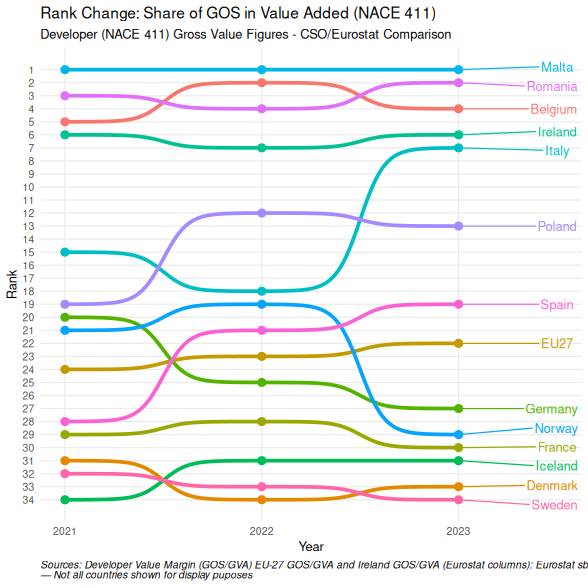
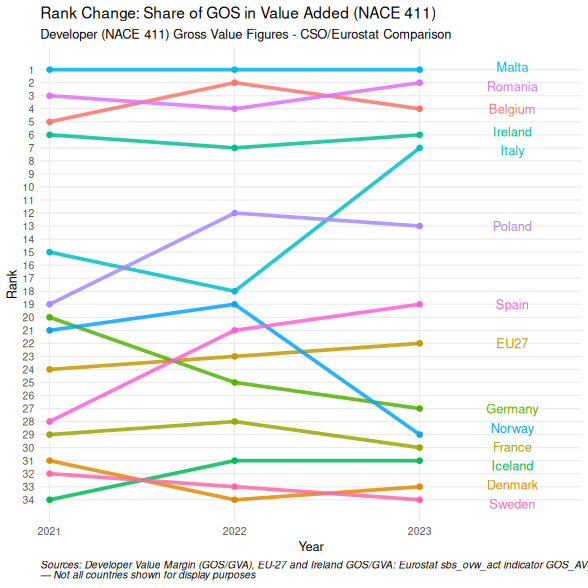
Fix CI build: drop ggbump dependency, force listing rebuild
- Replace geom_bump with geom_line in housing_1 rank chart, removing
  the GitHub-only ggbump dependency that was failing CI install
- Remove ggbump from package list and deploy workflow install step
- build.R: delete rendered index HTML before fuse_site to force the
  posts listing to rebuild (litedown's 'outdated' check skips it, so
  new/date-released posts weren't appearing in the index)
- deploy.yml: CRAN-only install, daily cron for staged release

diff --git a/posts/2026-06-10-housing_1/index.html b/posts/2026-06-10-housing_1/index.html
@@ -311,7 +311,7 @@ bump_data &lt;- eurostat_raw_labelled |&gt;
   filter(
     var == &quot;Share of gross operating surplus in value added - percentage&quot;,
     nace_code == 411,
-    year &lt;2024
+    year &lt; 2024
   ) |&gt;
   group_by(year) |&gt;
   mutate(rank = rank(-value, ties.method = &quot;first&quot;),
@@ -321,41 +321,41 @@ bump_data &lt;- eurostat_raw_labelled |&gt;
          year = as.integer(year)) |&gt;
   ungroup()
 
-# Define the countries you want to keep
-selected_countries &lt;- c(&quot;Ireland&quot;, &quot;EU27&quot;, &quot;France&quot;, &quot;Germany&quot;, &quot;Spain&quot;, &quot;Italy&quot;,&quot;Malta&quot;,&quot;Poland&quot;,&quot;Belgium&quot;,&quot;Denmark&quot;,&quot;Sweden&quot;,&quot;Iceland&quot;,&quot;Norway&quot;,&quot;Romania&quot;)
+selected_countries &lt;- c(&quot;Ireland&quot;, &quot;EU27&quot;, &quot;France&quot;, &quot;Germany&quot;, &quot;Spain&quot;, &quot;Italy&quot;,
+                        &quot;Malta&quot;, &quot;Poland&quot;, &quot;Belgium&quot;, &quot;Denmark&quot;, &quot;Sweden&quot;,
+                        &quot;Iceland&quot;, &quot;Norway&quot;, &quot;Romania&quot;)
 
 bump_data_filtered &lt;- bump_data |&gt;
   filter(geo %in% selected_countries)
 
-# 2. Plotting
 ggplot(bump_data_filtered, aes(x = year, y = rank, color = geo)) +
-  geom_bump(size = 1.5) +
-  geom_point(size = 3) +
-  # Use geom_text_repel for clean labels at the end of the lines
+  geom_line(linewidth = 1.5, alpha = 0.85) +
+  geom_point(size = 2) +
   geom_text_repel(
     data = bump_data_filtered |&gt; filter(year == max(year)),
     aes(label = geo),
     nudge_x = 0.5,
-    direction = &quot;y&quot;
+    direction = &quot;y&quot;,
+    segment.color = NA
   ) +
   scale_y_reverse(breaks = 1:max(bump_data_filtered$rank)) +
-  scale_x_continuous(breaks = seq(min(bump_data_filtered$year), max(bump_data_filtered$year), 1)) +
+  scale_x_continuous(
+    breaks = seq(min(bump_data_filtered$year), max(bump_data_filtered$year), 1),
+    expand = expansion(mult = c(0.02, 0.15))
+  ) +
   theme_minimal() +
   labs(
     title = &quot;Rank Change: Share of GOS in Value Added (NACE 411)&quot;,
     subtitle = &quot;Developer (NACE 411) Gross Value Figures - CSO/Eurostat Comparison&quot;,
-    x = 'Year',
+    x = &quot;Year&quot;,
     y = &quot;Rank&quot;,
-    caption = &quot;*Sources: Developer Value Margin (GOS/GVA)  EU-27 GOS/GVA and Ireland GOS/GVA (Eurostat columns): Eurostat sbs_ovw_act indicator GOS_AV_PC, NACE F41.1, updated 10/03/2026. &lt;br&gt; — Not all countries shown for display puposes*&quot;
+    caption = &quot;*Sources: Developer Value Margin (GOS/GVA), EU-27 and Ireland GOS/GVA: Eurostat sbs_ovw_act indicator GOS_AV_PC, NACE F41.1, updated 10/03/2026. &lt;br&gt; — Not all countries shown for display purposes*&quot;
   ) +
   theme(
     legend.position = &quot;none&quot;,
-    plot.caption = element_markdown(hjust = 0), # requires 'ggtext' package
+    plot.caption = element_markdown(hjust = 0),
     panel.grid.minor = element_blank()
   )
-</code></pre>
-<pre><code class="language-plain warning">#&gt; Using `size` aesthetic for lines was deprecated in ggplot2 3.4.0.
-#&gt; Please use `linewidth` instead.
 </code></pre>
 <p><img src="index__files/chunk-6-1.png" alt="" /></p>
 <p><strong>Second — per-capita extraction isn’t compressing:</strong> Ireland’s €199 per person in F41.1 developer surplus (2022 Eurostat) against the EU average of €49 is a structural measure, not a cyclical one. France generates €60 per capita, Germany €46. These aren’t countries whose developer sectors have been recently compressed by interest rate cycles; they have structurally different institutional arrangements. The per-capita gap reflects institutional design, not macroeconomic conditions.</p>

diff --git a/posts/2026-06-13-housing_4/index.html b/posts/2026-06-13-housing_4/index.html
@@ -37,11 +37,11 @@
 <p>To be precise about what is being claimed and what isn’t: this section does not allege corruption, bad faith, or wilful negligence by any named individual within the civil service. Senior civil servants in the Departments of Finance and Housing, the Housing Finance Agency, the LDA, and An Bord Pleanála are, in the main, doing the work they are resourced, mandated, and trained to do. The problem this section documents is that the analytical question required to interrogate the viability narrative — what are Irish developer margins relative to EU peers on the same Eurostat statistical framework? — isn’t one that any of these institutions has, to this report’s knowledge, formally posed or answered in any published policy document, Oireachtas submission, or internal review. The absence of the question isn’t the same as the presence of negligence. It may simply reflect the absence of the institutional capacity, mandate, and cross-dataset analytical framework required to ask it.</p>
 <h3 id="sec:7-8-what-official-bodies-have-and-have-not-found">7.8  What Official Bodies Have and Have Not Found</h3>
 <p>The published record of official analytical work on housing sector profitability and viability is instructive precisely in what it contains and what it doesn’t.</p>
-<p>**The Comptroller and Auditor General (C&amp;AG): ** In its 2022 Report on the Accounts of the Public Services, the C&amp;AG examined the Housing Assistance Payment scheme and concluded that it ‘doesn’t represent value for money’ and ‘doesn’t provide the State long-term assets.’ It quantified the cumulative exchequer cost and noted the disproportionate flow of HAP payments to larger landlord portfolios. This is the closest any official body has come to a distributional analysis of housing subsidy flows, and it stopped at the question of state asset acquisition rather than proceeding to the question of developer margin extraction. The C&amp;AG’s finding was widely reported and widely ignored in subsequent policy design.</p>
-<p>**The Parliamentary Budget Office (PBO): ** In its 2022 and 2023 analyses of Help-to-Buy, the PBO found that one-third of recipients didn’t need the scheme to meet their deposit requirement (deadweight), and that the scheme had a ‘house price inflation effect.’ These findings mirror exactly what this report’s analysis predicts from first principles: demand-side subsidies flow to sellers, not buyers. The PBO explicitly cited the risk that Help-to-Buy supports developer margins rather than reducing housing costs. The scheme was extended regardless.</p>
-<p>**The Central Bank of Ireland: ** In multiple Financial Stability Reviews and research papers, the Central Bank noted the house price inflation risk from demand-side interventions including Help-to-Buy, and flagged the concentration of the apartment development sector. None of these papers cross-referenced CNAPA01 developer margin data or Eurostat F41.1 GOS/GVA comparisons.</p>
-<p>**The Housing Commission (2024): ** The Housing Commission’s May 2024 report is the most thorough official analysis of the Irish housing system in a generation. It identified the 256,000-unit deficit, recommended a State-led delivery model, and analysed land costs as a primary driver. It didn’t calculate or reference developer GOS/GVA margins, didn’t compare Irish developer profitability against Eurostat EU peers, and didn’t quantify the planning-permission uplift using CSO land price data. All of these datasets were publicly available at the time of the Commission’s deliberations.</p>
-<p>**Budget documentation (2025–2026): ** The Department of Finance Budget 2026 documentation introducing the 9% VAT rate doesn’t contain a distributional analysis of who receives the VAT saving by developer size, concentration quintile, or subsidy stack. The impact assessment projects increased housing supply without modelling the developer margin effect. BDO, EY, Grant Thornton, and KPMG each published more detailed analyses of the measure than the Department of Finance’s own budget documentation.</p>
+<p><strong>The Comptroller and Auditor General (C&amp;AG):</strong> In its 2022 Report on the Accounts of the Public Services, the C&amp;AG examined the Housing Assistance Payment scheme and concluded that it ‘doesn’t represent value for money’ and ‘doesn’t provide the State long-term assets.’ It quantified the cumulative exchequer cost and noted the disproportionate flow of HAP payments to larger landlord portfolios. This is the closest any official body has come to a distributional analysis of housing subsidy flows, and it stopped at the question of state asset acquisition rather than proceeding to the question of developer margin extraction. The C&amp;AG’s finding was widely reported and widely ignored in subsequent policy design.</p>
+<p><strong>The Parliamentary Budget Office (PBO):</strong> In its 2022 and 2023 analyses of Help-to-Buy, the PBO found that one-third of recipients didn’t need the scheme to meet their deposit requirement (deadweight), and that the scheme had a ‘house price inflation effect.’ These findings mirror exactly what this report’s analysis predicts from first principles: demand-side subsidies flow to sellers, not buyers. The PBO explicitly cited the risk that Help-to-Buy supports developer margins rather than reducing housing costs. The scheme was extended regardless.</p>
+<p><strong>The Central Bank of Ireland:</strong> In multiple Financial Stability Reviews and research papers, the Central Bank noted the house price inflation risk from demand-side interventions including Help-to-Buy, and flagged the concentration of the apartment development sector. None of these papers cross-referenced CNAPA01 developer margin data or Eurostat F41.1 GOS/GVA comparisons.</p>
+<p><strong>The Housing Commission (2024):</strong> The Housing Commission’s May 2024 report is the most thorough official analysis of the Irish housing system in a generation. It identified the 256,000-unit deficit, recommended a State-led delivery model, and analysed land costs as a primary driver. It didn’t calculate or reference developer GOS/GVA margins, didn’t compare Irish developer profitability against Eurostat EU peers, and didn’t quantify the planning-permission uplift using CSO land price data. All of these datasets were publicly available at the time of the Commission’s deliberations.</p>
+<p><strong>Budget documentation (2025–2026):</strong> The Department of Finance Budget 2026 documentation introducing the 9% VAT rate doesn’t contain a distributional analysis of who receives the VAT saving by developer size, concentration quintile, or subsidy stack. The impact assessment projects increased housing supply without modelling the developer margin effect. BDO, EY, Grant Thornton, and KPMG each published more detailed analyses of the measure than the Department of Finance’s own budget documentation.</p>
 <p><strong>The National Economic and Social Council (NESC):</strong> The closest the official record comes to this report’s diagnosis. NESC Council Report 145 (2018), Urban Development Land, Housing and Infrastructure: Fixing Ireland’s Broken System, described the Irish housing system as ‘speculative, volatile and expensive’, called the urban land system dysfunctional, prepared a dedicated background paper on land value capture, and recommended active public land management on the Austrian, German and Dutch models. NESC Report 150 (2020) went further: it recommended establishing the LDA with compulsory acquisition, master-planning and land value capture powers, and called for the barriers to a Site Value Tax to be systematically addressed, noting that the Commission on Taxation had found a strong economic rationale for such a tax in 2009. NESC produced the structural diagnosis and the remedies. What it didn’t produce (and wasn’t resourced to produce) is the quantification: the sub-sector profitability data, the EU benchmarking, the measurement of who captures what. The diagnosis was published, the remedy was recommended, and the implementing departments adopted neither.</p>
 <p><strong>The CSO’s own international comparison (Business in Ireland 2020):</strong> The most instructive entry, because it shows the analytical instrument calibrated not to see. The CSO’s flagship enterprise publication, Business in Ireland 2020 (published November 2022), includes an EU27 comparison of construction profitability: Table 9.6, gross operating surplus as a percentage of turnover. Ireland’s construction figure is 14.1% against an EU27 average of 10.7%. Above average, behind Malta, Hungary, Poland and Romania, and entirely unremarkable. The comparison is made at the whole-sector NACE F level, where the developer sub-sector’s 81% value margin is diluted by the far larger builder and specialised-trades workforces, and on the GOS/turnover metric, which structurally understates margins in a sub-sector that books land value through high-turnover unit sales. The one official publication that did compare Irish construction profitability internationally did so at exactly the aggregation level, and on exactly the metric, at which the extraction documented in this report is invisible. This isn’t a criticism of the CSO, whose publication serves its stated descriptive purpose. It’s the precise illustration of why the Section 1 dual-source framework was necessary: the pattern only appears when the sector is disaggregated to three-digit NACE and measured against value added rather than turnover, a step no official analytical publication has taken.</p>
 <p>The pattern across all seven is consistent: official bodies identify symptoms (HAP cost, Help-to-Buy deadweight, house price inflation, land cost) without diagnosing the structural cause (developer margin extraction at a rate structurally elevated above EU peers by a factor of 4.1× on a per-capita basis). They have partial vision — close enough to the problem to measure its effects, but not using the analytical framework required to identify its source.</p>

diff --git a/posts/index.html b/posts/index.html
@@ -29,7 +29,7 @@
 <p>All murmurings.</p>
 <h2 id="sec:2026">2026</h2>
 <h3 id="sec:irish-housing">Irish Housing</h3>
-<p><em><a href="2026-06-12-housing_3/index.html">61 Representations a Year 3/7</a></em> — 2026-06-12<br><em><a href="2026-06-11-housing_2/index.html">The Permission and the Profit 2/7</a></em> — 2026-06-11<br><em><a href="2026-06-10-housing_1/index.html">81 Cents 1/7</a></em> — 2026-06-10<br><em><a href="2026-06-10-housing_0/index.html">The Archetecture Of Profit In Irish Housing 0/7</a></em> — 2026-06-10<br></p>
+<p><em><a href="2026-06-13-housing_4/index.html">The Data Was Always There 4/7</a></em> — 2026-06-13<br><em><a href="2026-06-12-housing_3/index.html">61 Representations a Year 3/7</a></em> — 2026-06-12<br><em><a href="2026-06-11-housing_2/index.html">The Permission and the Profit 2/7</a></em> — 2026-06-11<br><em><a href="2026-06-10-housing_1/index.html">81 Cents 1/7</a></em> — 2026-06-10<br><em><a href="2026-06-10-housing_0/index.html">The Archetecture Of Profit In Irish Housing 0/7</a></em> — 2026-06-10<br></p>
 </div>
 <footer><p>© 2026 Cathal</p></footer>
 <script src="https://cdn.jsdelivr.net/npm/@xiee/utils@1.14.53/js/sidenotes.min.js" defer></script>

diff --git a/index.html b/index.html
@@ -25,6 +25,7 @@
 data, R, statistics, and Ireland (in all its vices and virtues).</p>
 <h2 id="sec:recent-thoughts">Recent Thoughts</h2>
 <ul>
+<li><strong><a href="posts/2026-06-13-housing_4/index.html">The Data Was Always There 4/7</a></strong> — 2026-06-13</li>
 <li><strong><a href="posts/2026-06-12-housing_3/index.html">61 Representations a Year 3/7</a></strong> — 2026-06-12</li>
 <li><strong><a href="posts/2026-06-11-housing_2/index.html">The Permission and the Profit 2/7</a></strong> — 2026-06-11</li>
 <li><strong><a href="posts/2026-06-10-housing_1/index.html">81 Cents 1/7</a></strong> — 2026-06-10</li>